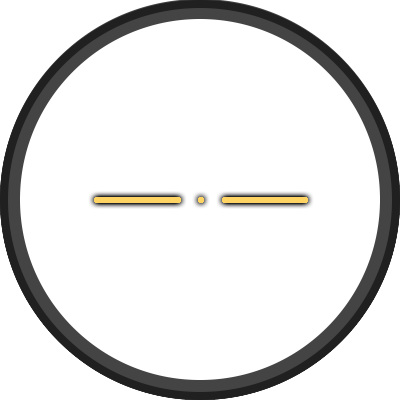
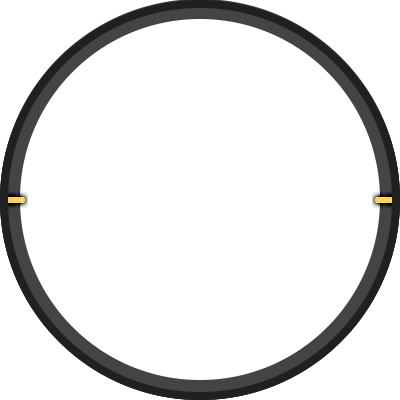
navball modes

Changed region(s): [[0.21, 0.48, 0.78, 0.54], [0.93, 0.48, 0.99, 0.54], [0.0, 0.48, 0.09, 0.54]]

diff --git a/public/templates/navball/navball_script.js b/public/templates/navball/navball_script.js
@@ -13,6 +13,40 @@ let tf = tfModule.tf;
 let offset_x = "-999";
 let offset_y = "-999";
 
+let mode = "" //see setMode()
+let raw_target = "";
+
+//all angles summed need to move at least this much to trigger an update
+const angleDelta = 0.001;
+
+let prev_pitch = 0;
+let prev_yaw = 0;
+let prev_roll = 0;
+
+let pitch = 0;
+let yaw = 0; 
+let roll = 0;
+
+let quat = new Quaternion();
+let quat_smooth = new Quaternion();
+
+//precomputed pixels
+let lut_px;
+let lut_py;
+let lut_pz;
+let lut_index;
+let lut_size = 0;
+let imageData
+let data;
+
+let textureLoaded = false;
+let overlayLoaded = false;
+let centerLoaded = false;
+
+let canvasSizeChanged = false;
+let renderOnce = true;
+let textureData;
+
 const clamp = (num, min, max) => Math.min(Math.max(num, min), max);
 const vwToVh = vw => (vw * window.innerWidth) / window.innerHeight;
 
@@ -34,7 +68,9 @@ stock_images["error"] = await imageToDataURL("assets/tile_error.png");
 let imu_topic = undefined;
 let listener = undefined;
 
+const angleModeBox = document.getElementById('{uniqueID}_angle_mode');
 const selectionbox = document.getElementById("{uniqueID}_topic");
+const altRollCheckbox = document.getElementById('{uniqueID}_alt_roll');
 
 const icon = document.getElementById("{uniqueID}_icon").getElementsByTagName('img')[0];
 const canvas = document.getElementById('{uniqueID}_canvas');
@@ -76,40 +112,85 @@ throttle.addEventListener("input", (event) =>{
 	connect();
 });
 
-let mode = "" //see setMode()
-let raw_target = "";
+angleModeBox.addEventListener('change', saveSettings);
+altRollCheckbox.addEventListener('change', saveSettings);
+
+const texture = new Image();
+texture.src = 'assets/navball_texture.jpg';
+texture.onload = () => {
+	const textureCanvas = document.createElement('canvas');
+	textureCanvas.width = texture.width;
+	textureCanvas.height = texture.height;
+
+	const textureCtx = textureCanvas.getContext('2d');
+	textureCtx.drawImage(texture, 0, 0);
+	textureData = textureCtx.getImageData(0, 0, texture.width, texture.height);
+
+	textureLoaded = true;
+};
+
+const overlay = new Image();
+overlay.src = 'assets/navball_overlay.png';
+overlay.onload = () => {
+	overlayLoaded = true;
+};
+
+const center = new Image();
+center.src = 'assets/navball_center.png';
+center.onload = () => {
+	centerLoaded = true;
+};
+
+
+//Settings
+
+if(settings.hasOwnProperty("{uniqueID}")){
+	const loaded_data  = settings["{uniqueID}"];
+	topic = loaded_data.topic;
+
+	offset_x = loaded_data.offset_x;
+	offset_y = loaded_data.offset_y;
+
+	throttle.value = loaded_data.throttle;
+
+	opacitySlider.value = loaded_data.opacity;
+	opacityValue.innerText = loaded_data.opacity;
+	canvas.style.opacity = loaded_data.opacity;
+
+	widthSlider.value = loaded_data.width;
+	widthValue.innerText = loaded_data.width;
+
+	angleModeBox.value = loaded_data.angle_mode;
+	altRollCheckbox.checked = loaded_data.alt_roll;
+
+	displayImageOffset(offset_x, offset_y);
+	setMode();
+}else{
+	displayImageOffset(50, 95);
+	saveSettings();
+}
+
+function saveSettings(){
+	setMode();
+	settings["{uniqueID}"] = {
+		topic: topic,
+		opacity: opacitySlider.value,
+		throttle: throttle.value,
+		width: widthSlider.value,
+		offset_x: offset_x,
+		offset_y: offset_y,
+		angle_mode: angleModeBox.value,
+		alt_roll: altRollCheckbox.checked
+	}
+	settings.save();
+
+	canvas.style.opacity = opacitySlider.value;
+	displayImageOffset(offset_x, offset_y);
+}
+
 
 //Canvas setup
 const ctx = canvas.getContext('2d', { willReadFrequently: true });
-
-let textureLoaded = false;
-let overlayLoaded = false;
-let canvasSizeChanged = false;
-let renderOnce = true;
-
-//all angles summed need to move at least this much to trigger an update
-const angleDelta = 0.001;
-
-let prev_pitch = 0;
-let prev_yaw = 0;
-let prev_roll = 0;
-
-let pitch = 0;
-let yaw = 0; 
-let roll = 0;
-
-let quat = new Quaternion();
-let quat_smooth = new Quaternion();
-
-//precomputed pixels
-let lut_px;
-let lut_py;
-let lut_pz;
-let lut_index;
-let lut_size = 0;
-let imageData
-let data;
-let textureData;
 
 function setupCanvas() {
 
@@ -170,67 +251,6 @@ function setupCanvas() {
 	renderOnce = true;
 }
 
-const texture = new Image();
-texture.src = 'assets/navball_texture.jpg';
-texture.onload = () => {
-	const textureCanvas = document.createElement('canvas');
-	textureCanvas.width = texture.width;
-	textureCanvas.height = texture.height;
-
-	const textureCtx = textureCanvas.getContext('2d');
-	textureCtx.drawImage(texture, 0, 0);
-	textureData = textureCtx.getImageData(0, 0, texture.width, texture.height);
-
-	textureLoaded = true;
-};
-
-const overlay = new Image();
-overlay.src = 'assets/navball_overlay.png';
-overlay.onload = () => {
-	overlayLoaded = true;
-};
-
-//Settings
-
-if(settings.hasOwnProperty("{uniqueID}")){
-	const loaded_data  = settings["{uniqueID}"];
-	topic = loaded_data.topic;
-
-	offset_x = loaded_data.offset_x;
-	offset_y = loaded_data.offset_y;
-
-	throttle.value = loaded_data.throttle;
-
-	opacitySlider.value = loaded_data.opacity;
-	opacityValue.innerText = loaded_data.opacity;
-	canvas.style.opacity = loaded_data.opacity;
-
-	widthSlider.value = loaded_data.width;
-	widthValue.innerText = loaded_data.width;
-
-	displayImageOffset(offset_x, offset_y);
-	setMode();
-}else{
-	displayImageOffset(50, 95);
-	saveSettings();
-}
-
-function saveSettings(){
-	setMode();
-	settings["{uniqueID}"] = {
-		topic: topic,
-		opacity: opacitySlider.value,
-		throttle: throttle.value,
-		width: widthSlider.value,
-		offset_x: offset_x,
-		offset_y: offset_y
-	}
-	settings.save();
-
-	canvas.style.opacity = opacitySlider.value;
-	displayImageOffset(offset_x, offset_y);
-}
-
 //Topic
 
 function renderNavball() {
@@ -242,13 +262,16 @@ function renderNavball() {
 		setupCanvas();
 	}
 
+	const mode = settings["{uniqueID}"].angle_mode;
+	const alt_roll = settings["{uniqueID}"].alt_roll;
+
 	const interpolator = quat_smooth.slerp(quat);
 	quat_smooth = interpolator(0.1);
 
 	const euler = quat_smooth.toEuler();
-	const pitch = euler.pitch;
-	const yaw = euler.h; 
-	const roll = euler.g;
+	let pitch = euler.pitch;
+	let yaw = euler.h; 
+	let roll = euler.g;
 
  	const dp = Math.abs(prev_pitch - pitch);
 	const dy = Math.abs(prev_yaw - yaw);
@@ -271,12 +294,33 @@ function renderNavball() {
 	prev_yaw = yaw;
 	prev_roll = roll;
 
+	let true_roll = roll;
+
+	if(mode == "horizon_true"){
+		pitch = -pitch;
+		yaw = -yaw + Math.PI/2;
+		roll = roll + Math.PI;
+		true_roll = -roll;
+	}else if(mode == "horizon_fake"){
+		yaw = yaw - Math.PI/2;
+		roll = roll + Math.PI;
+		true_roll = alt_roll ? roll : -roll;
+	}else{
+		pitch = pitch;
+		yaw = yaw - Math.PI/2;
+		roll = -roll + Math.PI;
+	}
+
+	if(alt_roll){
+		roll = Math.PI;
+	}
+
 	const cosP = Math.cos(pitch);
 	const sinP = Math.sin(pitch);
-	const cosY = Math.cos(yaw - Math.PI/2);
-	const sinY = Math.sin(yaw - Math.PI/2);
-	const cosR = Math.cos(roll + Math.PI);
-	const sinR = Math.sin(roll + Math.PI);
+	const cosY = Math.cos(yaw);
+	const sinY = Math.sin(yaw);
+	const cosR = Math.cos(roll);
+	const sinR = Math.sin(roll);
 	
 	// Pre-calculate the combined rotation matrix
 	const m11 = cosY * cosR + sinY * sinP * sinR;
@@ -318,9 +362,21 @@ function renderNavball() {
 		data[pixelIndex + 2] = texturePixels[texIndex + 2];
 	}
 	
+	ctx.setTransform(1,0,0,1,0,0); 
 	ctx.putImageData(imageData, 0, 0);
+
+	if(centerLoaded){
+		ctx.setTransform(1,0,0,1,width/2, height/2); 
+		if(alt_roll)
+			ctx.rotate(true_roll);
+		ctx.drawImage(center, -width/2, -height/2, width, height);
+	}
+
 	if (overlayLoaded) {
-		ctx.drawImage(overlay, 0, 0, width, height);
+		ctx.setTransform(1,0,0,1,width/2, height/2); 
+		if(!alt_roll)
+			ctx.rotate(true_roll);
+		ctx.drawImage(overlay, -width/2, -height/2, width, height);
 	}
 
 	renderOnce = false;

diff --git a/public/templates/navball/navball_modal.html b/public/templates/navball/navball_modal.html
@@ -45,7 +45,21 @@
 			<p id="{uniqueID}_frame_id" style="color: lightgray;">Frame: ?</p>
 		</div>
 
-		<p>Render pitch yaw and roll from sensor_msgs/Imu messages.</p>
+		<label for="{uniqueID}_angle_mode">Mode:</label>
+		<select id="{uniqueID}_angle_mode">
+			<option value="horizon_fake">Pilot (Inside-Out)</option>
+			<option value="horizon_true">Inertial Reference (Outside-In)</option>
+			<option value="external">Observer (Direct Rotation)</option>
+		</select>
+
+		<p class="comment">
+			<strong>Pilot:</strong> Traditional aerospace view from inside the sphere, an artificial horizon that moves inverse to vehicle motion.<br>
+			<strong>Inertial Reference:</strong> Magic floating sphere that's fixed to world rotation (pilot view with flipped pitch and yaw).<br>
+			<strong>Observer:</strong> Simply rotates the ball in the same direction as the given orientation.
+		</p>
+
+		<label>Show roll on indicator line:</label>
+		<input type="checkbox" id="{uniqueID}_alt_roll">
 
 		<div class="spacer"></div>
 

diff --git a/public/templates/map/map_script.js b/public/templates/map/map_script.js
@@ -104,7 +104,6 @@ opacitySlider.addEventListener('input', () =>  {
 	drawMap();
 });
 
-
 const loadPathBox = document.getElementById("{uniqueID}_loadpath");
 const loadTopicBox = document.getElementById("{uniqueID}_loadtopic");
 const savePathBox = document.getElementById("{uniqueID}_savepath");
